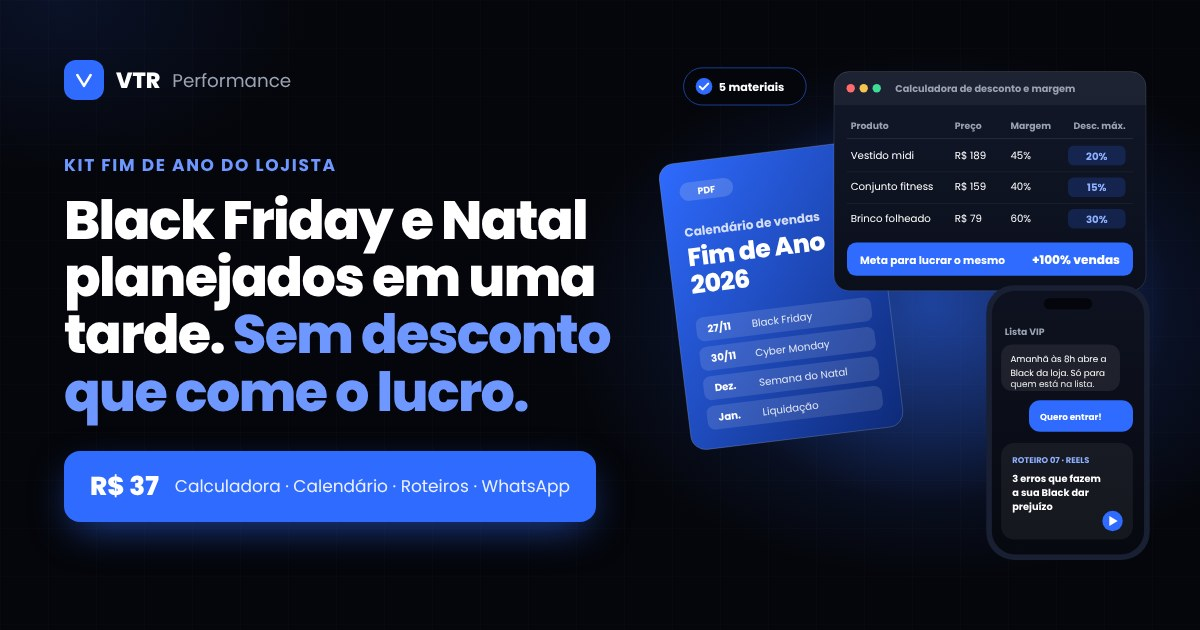
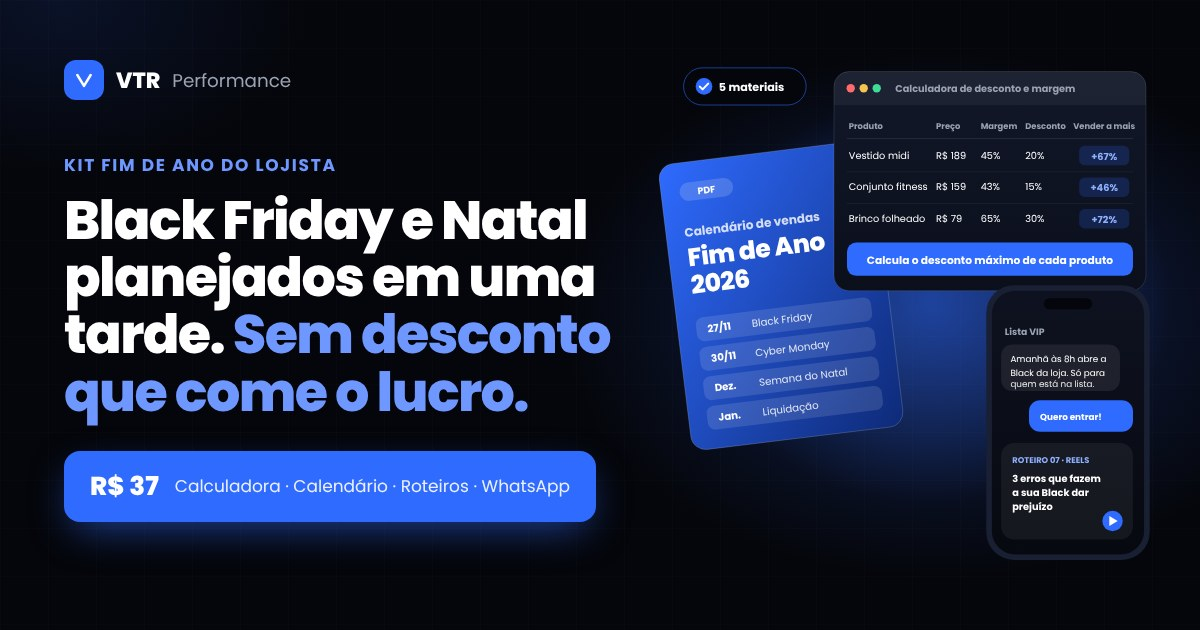
Aplica ajustes finais: mockup da planilha real, contador, diagnóstico e formatos
- Mockup e imagem OG com a tabela da calculadora real (preço, margem,
  desconto e "vender a mais"); barra trocada por "Calcula o desconto
  máximo de cada produto"
- Contador no fuso America/Sao_Paulo: Black Friday, "Hoje é Black
  Friday", contagem do Natal, "Último dia para o presente de Natal" em
  24/12 e oculto a partir de 25/12
- Página de obrigado volta a ofertar o Diagnóstico Estratégico (R$ 97)
  com o checkout da Cakto e agendamento pelo WhatsApp
- Formatos reais dos materiais: planilha com 4 abas, 30 roteiros + 8
  prompts, 23 mensagens, checklist com 9 áreas; termos citam o order bump
- Título "Estrategista de Lojas" e texto do botão centralizado

Claude-Session: https://claude.ai/code/session_01L7rCATTTT9RtvdrDgCRyUu

diff --git a/kit-fim-de-ano-lp/index.html b/kit-fim-de-ano-lp/index.html
@@ -127,23 +127,22 @@
               <path d="M0 16a16 16 0 0 1 16-16h304a16 16 0 0 1 16 16v20H0z" fill="#FFFFFF" fill-opacity="0.05"/>
               <circle cx="18" cy="18" r="4.5" fill="#FF6B6B"/><circle cx="32" cy="18" r="4.5" fill="#F5C451"/><circle cx="46" cy="18" r="4.5" fill="#3DDC97"/>
               <text x="66" y="22" font-size="10.5" font-weight="700" fill="#9AA3B2">Calculadora de desconto e margem</text>
-              <g font-size="10" fill="#9AA3B2" font-weight="700">
-                <text x="18" y="62">Produto</text><text x="130" y="62">Preço</text><text x="190" y="62">Margem</text><text x="258" y="62">Desc. máx.</text>
+              <g font-size="9" fill="#9AA3B2" font-weight="700">
+                <text x="16" y="62">Produto</text><text x="110" y="62">Preço</text><text x="158" y="62">Margem</text><text x="206" y="62">Desconto</text><text x="291" y="62" text-anchor="middle">Vender a mais</text>
               </g>
               <line x1="14" y1="72" x2="322" y2="72" stroke="#FFFFFF" stroke-opacity="0.1"/>
-              <g font-size="11" fill="#FFFFFF">
-                <text x="18" y="94">Vestido midi</text><text x="130" y="94">R$ 189</text><text x="190" y="94">45%</text>
-                <rect x="252" y="80" width="62" height="21" rx="6" fill="#2F6BFF" fill-opacity="0.2"/><text x="283" y="95" text-anchor="middle" font-weight="700" fill="#8FB0FF">20%</text>
+              <g font-size="10.5" fill="#FFFFFF">
+                <text x="16" y="94">Vestido midi</text><text x="110" y="94">R$ 189</text><text x="158" y="94">45%</text><text x="206" y="94">20%</text>
+                <rect x="264" y="80" width="54" height="21" rx="6" fill="#2F6BFF" fill-opacity="0.2"/><text x="291" y="95" text-anchor="middle" font-weight="700" fill="#8FB0FF">+67%</text>
                 <line x1="14" y1="108" x2="322" y2="108" stroke="#FFFFFF" stroke-opacity="0.06"/>
-                <text x="18" y="128">Conjunto fitness</text><text x="130" y="128">R$ 159</text><text x="190" y="128">40%</text>
-                <rect x="252" y="114" width="62" height="21" rx="6" fill="#2F6BFF" fill-opacity="0.2"/><text x="283" y="129" text-anchor="middle" font-weight="700" fill="#8FB0FF">15%</text>
+                <text x="16" y="128">Conjunto fitness</text><text x="110" y="128">R$ 159</text><text x="158" y="128">43%</text><text x="206" y="128">15%</text>
+                <rect x="264" y="114" width="54" height="21" rx="6" fill="#2F6BFF" fill-opacity="0.2"/><text x="291" y="129" text-anchor="middle" font-weight="700" fill="#8FB0FF">+46%</text>
                 <line x1="14" y1="142" x2="322" y2="142" stroke="#FFFFFF" stroke-opacity="0.06"/>
-                <text x="18" y="162">Brinco folheado</text><text x="130" y="162">R$ 79</text><text x="190" y="162">60%</text>
-                <rect x="252" y="148" width="62" height="21" rx="6" fill="#2F6BFF" fill-opacity="0.2"/><text x="283" y="163" text-anchor="middle" font-weight="700" fill="#8FB0FF">30%</text>
+                <text x="16" y="162">Brinco folheado</text><text x="110" y="162">R$ 79</text><text x="158" y="162">65%</text><text x="206" y="162">30%</text>
+                <rect x="264" y="148" width="54" height="21" rx="6" fill="#2F6BFF" fill-opacity="0.2"/><text x="291" y="163" text-anchor="middle" font-weight="700" fill="#8FB0FF">+72%</text>
               </g>
               <rect x="14" y="184" width="308" height="36" rx="10" fill="#2F6BFF"/>
-              <text x="28" y="207" font-size="11.5" font-weight="700" fill="#FFFFFF">Meta para lucrar o mesmo</text>
-              <text x="308" y="207" text-anchor="end" font-size="13" font-weight="800" fill="#FFFFFF">+100% vendas</text>
+              <text x="168" y="207" text-anchor="middle" font-size="11.5" font-weight="700" fill="#FFFFFF">Calcula o desconto máximo de cada produto</text>
             </g>
           
             <!-- Celular -->
@@ -325,8 +324,8 @@
             </div>
             <h3>Calculadora de desconto e margem</h3>
             <p class="benefit">Saiba quanto desconto dar sem prejuízo e quanto vender a mais para compensar.</p>
-            <p class="what">Você coloca o preço e o custo. A planilha mostra o desconto que cabe em cada produto e quanto você precisa vender para a campanha valer a pena.</p>
-            <span class="kit-format">Google Planilhas</span>
+            <p class="what">Você coloca o preço e o custo. A planilha mostra o desconto que cabe em cada produto e quanto você precisa vender para a campanha valer a pena. São 4 abas: calculadora por produto, simulador rápido, meta da campanha e desconto ou brinde.</p>
+            <span class="kit-format">Google Planilhas · 4 abas</span>
           </article>
           <article class="kit-card wide reveal">
             <div class="kit-top">
@@ -351,20 +350,20 @@
               <span class="kit-icon"><svg viewBox="0 0 24 24" fill="none" stroke="currentColor" stroke-width="2" stroke-linecap="round" stroke-linejoin="round" aria-hidden="true"><rect x="3" y="3" width="18" height="18" rx="5"/><path d="M10 8.5v7l5.5-3.5z"/></svg></span>
               <span class="kit-n">Material 3</span>
             </div>
-            <h3>30 roteiros de Reels e stories + prompts de IA</h3>
+            <h3>30 roteiros de Reels e stories + 8 prompts de IA</h3>
             <p class="benefit">Nunca mais trave no que postar.</p>
-            <p class="what">30 roteiros prontos para gravar com o celular, mais prompts para gerar legendas, ganchos e novos roteiros no ChatGPT ou no Claude.</p>
-            <span class="kit-format">PDF</span>
+            <p class="what">30 roteiros prontos para gravar com o celular, mais 8 prompts para gerar legendas, ganchos e novos roteiros no ChatGPT ou no Claude.</p>
+            <span class="kit-format">PDF · 30 roteiros + 8 prompts</span>
           </article>
           <article class="kit-card reveal">
             <div class="kit-top">
               <span class="kit-icon"><svg viewBox="0 0 24 24" fill="none" stroke="currentColor" stroke-width="2" stroke-linecap="round" stroke-linejoin="round" aria-hidden="true"><path d="M4 5h16v11H9l-5 4z"/><path d="M8 9.5h8M8 12.5h5"/></svg></span>
               <span class="kit-n">Material 4</span>
             </div>
-            <h3>Mensagens prontas de WhatsApp</h3>
+            <h3>23 mensagens prontas de WhatsApp</h3>
             <p class="benefit">Acorde a sua base e venda para quem já confia em você.</p>
             <p class="what">Aquecimento da base, lista VIP, abertura da oferta, último dia, recuperação de carrinho e pós-venda. Copie, ajuste e envie.</p>
-            <span class="kit-format">PDF</span>
+            <span class="kit-format">PDF · 23 mensagens</span>
           </article>
           <article class="kit-card reveal">
             <div class="kit-top">
@@ -373,8 +372,8 @@
             </div>
             <h3>Checklist da loja para o fim de ano</h3>
             <p class="benefit">Chegue no pico de vendas sem susto na operação.</p>
-            <p class="what">Estoque, frete, site, meios de pagamento e atendimento revisados antes de o movimento chegar.</p>
-            <span class="kit-format">PDF</span>
+            <p class="what">9 áreas da loja revisadas antes de o movimento chegar, incluindo estoque, frete, site, meios de pagamento e atendimento.</p>
+            <span class="kit-format">PDF · 9 áreas</span>
           </article>
         </div>
         <div class="cta-block center reveal">
@@ -425,7 +424,7 @@
           </div>
           <div class="reveal">
             <span class="eyebrow">Quem preparou o kit</span>
-            <h2 id="t-vitor">Vitor Almeida, estrategista de lojas</h2>
+            <h2 id="t-vitor">Vitor Almeida, Estrategista de Lojas</h2>
             <p>Há cerca de 4 anos eu faço a gestão de Meta Ads e Google Ads de e-commerces e lojas físicas. E todo fim de ano eu vejo a mesma cena: loja vendendo muito e lucrando pouco, porque o desconto foi decidido no chute.</p>
             <p>Este kit reúne o que eu faço antes de qualquer campanha de fim de ano: primeiro a conta, depois o calendário, depois o conteúdo e as mensagens. Organizado para você aplicar sozinho(a), sem precisar contratar ninguém.</p>
             <div class="case">
@@ -445,11 +444,11 @@
         <div class="offer-card reveal">
           <h2 id="t-oferta">Tudo o que a sua loja precisa para o fim de ano</h2>
           <ul class="offer-list">
-            <li><svg viewBox="0 0 24 24" fill="none" stroke="currentColor" stroke-width="2.4" stroke-linecap="round" stroke-linejoin="round" aria-hidden="true"><path d="M5 12.5l4.5 4.5L19 7.5"/></svg><span><strong>Calculadora de desconto e margem</strong><small>O desconto certo para cada produto</small></span></li>
+            <li><svg viewBox="0 0 24 24" fill="none" stroke="currentColor" stroke-width="2.4" stroke-linecap="round" stroke-linejoin="round" aria-hidden="true"><path d="M5 12.5l4.5 4.5L19 7.5"/></svg><span><strong>Calculadora de desconto e margem</strong><small>Planilha com 4 abas: o desconto certo para cada produto</small></span></li>
             <li><svg viewBox="0 0 24 24" fill="none" stroke="currentColor" stroke-width="2.4" stroke-linecap="round" stroke-linejoin="round" aria-hidden="true"><path d="M5 12.5l4.5 4.5L19 7.5"/></svg><span><strong>Calendário de vendas de fim de ano 2026</strong><small>Da Black Friday à liquidação de janeiro</small></span></li>
-            <li><svg viewBox="0 0 24 24" fill="none" stroke="currentColor" stroke-width="2.4" stroke-linecap="round" stroke-linejoin="round" aria-hidden="true"><path d="M5 12.5l4.5 4.5L19 7.5"/></svg><span><strong>30 roteiros de Reels e stories + prompts de IA</strong><small>Conteúdo pronto para as próximas semanas</small></span></li>
-            <li><svg viewBox="0 0 24 24" fill="none" stroke="currentColor" stroke-width="2.4" stroke-linecap="round" stroke-linejoin="round" aria-hidden="true"><path d="M5 12.5l4.5 4.5L19 7.5"/></svg><span><strong>Mensagens prontas de WhatsApp</strong><small>Da lista VIP ao pós-venda</small></span></li>
-            <li><svg viewBox="0 0 24 24" fill="none" stroke="currentColor" stroke-width="2.4" stroke-linecap="round" stroke-linejoin="round" aria-hidden="true"><path d="M5 12.5l4.5 4.5L19 7.5"/></svg><span><strong>Checklist da loja para o fim de ano</strong><small>Estoque, frete, site, pagamento e atendimento</small></span></li>
+            <li><svg viewBox="0 0 24 24" fill="none" stroke="currentColor" stroke-width="2.4" stroke-linecap="round" stroke-linejoin="round" aria-hidden="true"><path d="M5 12.5l4.5 4.5L19 7.5"/></svg><span><strong>30 roteiros de Reels e stories + 8 prompts de IA</strong><small>Conteúdo pronto para as próximas semanas</small></span></li>
+            <li><svg viewBox="0 0 24 24" fill="none" stroke="currentColor" stroke-width="2.4" stroke-linecap="round" stroke-linejoin="round" aria-hidden="true"><path d="M5 12.5l4.5 4.5L19 7.5"/></svg><span><strong>23 mensagens prontas de WhatsApp</strong><small>Da lista VIP ao pós-venda</small></span></li>
+            <li><svg viewBox="0 0 24 24" fill="none" stroke="currentColor" stroke-width="2.4" stroke-linecap="round" stroke-linejoin="round" aria-hidden="true"><path d="M5 12.5l4.5 4.5L19 7.5"/></svg><span><strong>Checklist da loja para o fim de ano</strong><small>9 áreas: estoque, frete, site, pagamento, atendimento e mais</small></span></li>
             <li><svg viewBox="0 0 24 24" fill="none" stroke="currentColor" stroke-width="2.4" stroke-linecap="round" stroke-linejoin="round" aria-hidden="true"><path d="M5 12.5l4.5 4.5L19 7.5"/></svg><span><strong>Acesso à pasta do kit no Google Drive</strong><small>Tudo num lugar só, no celular ou no computador</small></span></li>
           </ul>
           <div class="price">
@@ -494,7 +493,7 @@
           </details>
           <details class="reveal">
             <summary>Preciso saber usar IA?</summary>
-            <div class="answer"><p>Não. Os 30 roteiros já vêm prontos. Os prompts são um extra: você copia, cola no ChatGPT ou no Claude, troca as informações pelas da sua loja e recebe legendas e ganchos no seu tom.</p></div>
+            <div class="answer"><p>Não. Os 30 roteiros já vêm prontos. Os 8 prompts são um extra: você copia, cola no ChatGPT ou no Claude, troca as informações pelas da sua loja e recebe legendas e ganchos no seu tom.</p></div>
           </details>
           <details class="reveal">
             <summary>Como recebo o kit?</summary>

diff --git a/kit-fim-de-ano-lp/obrigado/index.html b/kit-fim-de-ano-lp/obrigado/index.html
@@ -44,19 +44,25 @@
       </ol>
       <p class="muted" style="margin-top:20px">Não recebeu ou ficou com alguma dúvida? <a class="js-whatsapp blue" href="#">Fale comigo no WhatsApp</a>.</p>
 
-      <!-- CONSULTORIA: contato direto pelo WhatsApp (sem checkout por enquanto) -->
+      <!-- UPSELL: Diagnóstico Estratégico da Loja (R$ 97). Link em UPSELL_URL, no topo de assets/main.js -->
       <section class="upsell" aria-labelledby="t-upsell" style="padding:0">
         <div class="offer-card">
-          <span class="eyebrow">Quer ir além do kit?</span>
+          <span class="eyebrow">Antes de sair</span>
           <h2 id="t-upsell">Quer que eu olhe a sua loja com você?</h2>
-          <p style="margin-top:16px;color:#C5CBD6">O kit te dá o plano. Se você quiser aplicar com acompanhamento, eu faço <strong>consultorias individuais</strong> com lojistas: a gente olha os números da <strong>sua</strong> loja juntos e monta as prioridades para o fim de ano.</p>
+          <p style="margin-top:16px;color:#C5CBD6">O kit te dá o plano. No <strong>Diagnóstico Estratégico da Loja</strong>, a gente olha os números da <strong>sua</strong> loja juntos, numa consultoria individual, e você sai sabendo onde estão as maiores oportunidades para o fim de ano.</p>
           <ul class="offer-list">
             <li><svg viewBox="0 0 24 24" fill="none" stroke="currentColor" stroke-width="2.4" stroke-linecap="round" stroke-linejoin="round" aria-hidden="true"><path d="M5 12.5l4.5 4.5L19 7.5"/></svg><span><strong>Sua margem e o seu desconto</strong><small>Revisamos juntos os produtos que você quer colocar na promoção</small></span></li>
             <li><svg viewBox="0 0 24 24" fill="none" stroke="currentColor" stroke-width="2.4" stroke-linecap="round" stroke-linejoin="round" aria-hidden="true"><path d="M5 12.5l4.5 4.5L19 7.5"/></svg><span><strong>A sua oferta de fim de ano</strong><small>O que oferecer, para quem e em qual data</small></span></li>
             <li><svg viewBox="0 0 24 24" fill="none" stroke="currentColor" stroke-width="2.4" stroke-linecap="round" stroke-linejoin="round" aria-hidden="true"><path d="M5 12.5l4.5 4.5L19 7.5"/></svg><span><strong>Seus canais de venda</strong><small>Instagram, WhatsApp, site e anúncios: onde focar primeiro</small></span></li>
+            <li><svg viewBox="0 0 24 24" fill="none" stroke="currentColor" stroke-width="2.4" stroke-linecap="round" stroke-linejoin="round" aria-hidden="true"><path d="M5 12.5l4.5 4.5L19 7.5"/></svg><span><strong>3 prioridades para as próximas semanas</strong><small>Você sai sabendo o que fazer primeiro</small></span></li>
           </ul>
-          <a class="btn js-whatsapp" data-wa-text="Oi, Vitor! Comprei o Kit Fim de Ano e quero saber como funciona a consultoria para a minha loja." href="#">Quero falar com o Vitor no WhatsApp <svg viewBox="0 0 24 24" fill="none" stroke="currentColor" stroke-width="2.4" stroke-linecap="round" stroke-linejoin="round" aria-hidden="true"><path d="M5 12h14M13 6l6 6-6 6"/></svg></a>
-          <a class="link-plain" href="/">Agora não. Vou começar pelo kit.</a>
+          <div class="price">
+            <span class="only">Diagnóstico Estratégico da Loja</span>
+            <div class="value" aria-label="97 reais"><span class="cur">R$</span><span class="num">97</span></div>
+            <span class="terms">Depois do pagamento, você agenda comigo pelo WhatsApp</span>
+          </div>
+          <a class="btn js-upsell" href="#">Quero o meu diagnóstico <svg viewBox="0 0 24 24" fill="none" stroke="currentColor" stroke-width="2.4" stroke-linecap="round" stroke-linejoin="round" aria-hidden="true"><path d="M5 12h14M13 6l6 6-6 6"/></svg></a>
+          <a class="link-plain" href="/">Não, obrigado. Vou começar só com o kit.</a>
         </div>
       </section>
     </div>

diff --git a/kit-fim-de-ano-lp/assets/main.js b/kit-fim-de-ano-lp/assets/main.js
@@ -2,15 +2,15 @@
    CONFIGURAÇÃO — troque só estes valores (veja o README.md)
    ========================================================================== */
 var CHECKOUT_URL    = "https://pay.cakto.com.br/966yqov_1312461"; // ex.: https://pay.cakto.com.br/abc123
-var UPSELL_URL      = "[PREENCHER LINK DO UPSELL]";          // opcional: hoje a consultoria é pelo WhatsApp
+var UPSELL_URL      = "https://pay.cakto.com.br/j2mdbbi_1313183"; // Diagnóstico Estratégico da Loja (R$ 97)
 var META_PIXEL_ID   = "1123355403977678";                // só números, ex.: 123456789012345
 var WHATSAPP_NUMBER = "5511992137608";                // DDI + DDD + número, só números, ex.: 5519999999999
 var WHATSAPP_TEXT   = "Oi, Vitor! Tenho uma dúvida sobre o Kit Fim de Ano do Lojista.";
 var PRODUCT_VALUE   = 37;
 
-/* Datas reais usadas no contador de dias (horário de Brasília) */
-var BLACK_FRIDAY = "2026-11-27T00:00:00-03:00";
-var NATAL        = "2026-12-25T00:00:00-03:00";
+/* Datas reais usadas no contador de dias (fuso America/Sao_Paulo) */
+var BLACK_FRIDAY = "2026-11-27";
+var NATAL        = "2026-12-25";
 
 /* ========================================================================== */
 (function () {
@@ -95,23 +95,24 @@ var NATAL        = "2026-12-25T00:00:00-03:00";
     window.addEventListener("scroll", onScroll, { passive: true });
   }
 
-  /* ---------- Contador de dias (data real, não reinicia) ---------- */
+  /* ---------- Contador de dias (data real, não reinicia) ----------
+     Até 26/11: "Faltam X dias para a Black Friday" · 27/11: "Hoje é Black Friday"
+     28/11 a 23/12: "Faltam X dias para o Natal" · 24/12: "Último dia para o presente de Natal"
+     A partir de 25/12: escondido. Usa a data do navegador no fuso de São Paulo. */
   var pills = document.querySelectorAll(".js-countdown");
   if (pills.length) {
-    var now = Date.now();
-    var day = 864e5;
-    var bf = new Date(BLACK_FRIDAY).getTime();
-    var xmas = new Date(NATAL).getTime();
+    var todaySP;
+    try {
+      todaySP = new Intl.DateTimeFormat("en-CA", { timeZone: "America/Sao_Paulo", year: "numeric", month: "2-digit", day: "2-digit" }).format(new Date());
+    } catch (e) { todaySP = new Date().toISOString().slice(0, 10); }
+    var dayNum = function (ymd) { var p = ymd.split("-"); return Date.UTC(+p[0], +p[1] - 1, +p[2]) / 864e5; };
+    var t = dayNum(todaySP), bf = dayNum(BLACK_FRIDAY), xmas = dayNum(NATAL);
+    var plural = function (n, alvo) { return n === 1 ? "Falta <b>1 dia</b> para " + alvo : "Faltam <b>" + n + " dias</b> para " + alvo; };
     var text = "";
-    if (now < bf) {
-      var d = Math.ceil((bf - now) / day);
-      text = d === 1 ? "Falta <b>1 dia</b> para a Black Friday" : "Faltam <b>" + d + " dias</b> para a Black Friday";
-    } else if (now < bf + day) {
-      text = "<b>Hoje</b> é Black Friday";
-    } else if (now < xmas) {
-      var n = Math.ceil((xmas - now) / day);
-      text = n === 1 ? "Falta <b>1 dia</b> para o Natal" : "Faltam <b>" + n + " dias</b> para o Natal";
-    }
+    if (t < bf) text = plural(bf - t, "a Black Friday");
+    else if (t === bf) text = "<b>Hoje</b> é Black Friday";
+    else if (t === xmas - 1) text = "<b>Último dia</b> para o presente de Natal";
+    else if (t < xmas) text = plural(xmas - t, "o Natal");
     if (text) pills.forEach(function (p) { p.innerHTML = text; p.hidden = false; });
   }
 

diff --git a/kit-fim-de-ano-lp/termos/index.html b/kit-fim-de-ano-lp/termos/index.html
@@ -36,7 +36,7 @@
       <p>Estes termos valem para o uso deste site e para a compra do <strong>Kit Fim de Ano do Lojista: da Black Friday ao Natal</strong>, oferecido pela VTR Performance, inscrita no CNPJ 56.418.923/0001-12 <!-- [CONFIRMAR RAZÃO SOCIAL] -->.</p>
 
       <h2>1. O produto</h2>
-      <p>O kit é um produto digital composto por uma calculadora de desconto e margem (Google Planilhas) e pelos seguintes materiais em PDF: calendário de vendas de fim de ano 2026, 30 roteiros de Reels e stories com prompts de IA, mensagens prontas de WhatsApp e checklist da loja para o fim de ano. Tudo é entregue em uma pasta no Google Drive, cujo acesso é enviado para o e-mail informado na compra, após a aprovação do pagamento.</p>
+      <p>O kit é um produto digital composto por uma calculadora de desconto e margem (Google Planilhas) e pelos seguintes materiais em PDF: calendário de vendas de fim de ano 2026, 30 roteiros de Reels e stories com 8 prompts de IA, 23 mensagens prontas de WhatsApp e checklist da loja para o fim de ano (9 áreas). Quem adiciona o complemento no checkout recebe também um PDF com 25 prompts de anúncios. Tudo é entregue em uma pasta no Google Drive, cujo acesso é enviado para o e-mail informado na compra, após a aprovação do pagamento.</p>
 
       <h2>2. Pagamento</h2>
       <p>O pagamento é processado pela plataforma Cakto, que segue as próprias regras de segurança e privacidade. Não temos acesso aos dados do seu cartão.</p>

diff --git a/kit-fim-de-ano-lp/assets/styles.css b/kit-fim-de-ano-lp/assets/styles.css
@@ -82,6 +82,7 @@ section { position: relative; padding: 72px 0; }
   background: var(--blue);
   color: var(--white);
   font: 700 1.125rem/1.2 var(--font);
+  text-align: center;
   text-decoration: none;
   border: 0; border-radius: 14px;
   cursor: pointer;

diff --git a/kit-fim-de-ano-lp/README.md b/kit-fim-de-ano-lp/README.md
@@ -21,7 +21,7 @@ Site estático (HTML + CSS + JS puro), sem backend. Lighthouse mobile local: 100
 
 ## 1. Trocar o link do checkout, o pixel e o WhatsApp
 
-> **Já configurado (11/11/2026):** checkout `https://pay.cakto.com.br/966yqov_1312461`, Meta Pixel `1123355403977678` e WhatsApp `5511992137608`. Falta só o `UPSELL_URL`.
+> **Já configurado:** checkout do kit `https://pay.cakto.com.br/966yqov_1312461`, checkout do diagnóstico `https://pay.cakto.com.br/j2mdbbi_1313183` (`UPSELL_URL`), Meta Pixel `1123355403977678` e WhatsApp `5511992137608`.
 
 Abra `assets/main.js`. As primeiras linhas eram estas:
 
@@ -48,7 +48,7 @@ var WHATSAPP_NUMBER = "5519999999999";
 
 - **UTM:** se alguém chega em `kit.vtrperformance.com.br/?utm_source=instagram&utm_medium=reels`, o botão leva para `pay.cakto.com.br/abc123?utm_source=instagram&utm_medium=reels`. Assim a Cakto mostra de onde veio cada venda.
 - **Meta Pixel:** `PageView` ao abrir, `ViewContent` ao rolar 50% da página e `InitiateCheckout` ao clicar em qualquer botão de compra (valor 37, BRL).
-- **Contador de dias:** mostra "Faltam X dias para a Black Friday" até 27/11 e depois "Faltam X dias para o Natal". É a data real, não reinicia. Depois de 25/12 ele some sozinho.
+- **Contador de dias** (data do navegador no fuso de São Paulo): até 26/11 "Faltam X dias para a Black Friday"; em 27/11 "Hoje é Black Friday"; de 28/11 a 23/12 "Faltam X dias para o Natal"; em 24/12 "Último dia para o presente de Natal"; a partir de 25/12 ele some.
 
 ### Google Tag Manager (GTM-MHCTJ7ZP)
 
@@ -74,7 +74,6 @@ Procure por `[PREENCHER` e `[CONFIRMAR` (Ctrl+F) em cada arquivo:
 - **Razão social:** o CNPJ 56.418.923/0001-12 já está no rodapé e nos termos, com o nome "VTR Performance". Troque pelo nome empresarial exato do cartão CNPJ onde houver `[CONFIRMAR RAZÃO SOCIAL]`.
 - **E-mail de contato:** já preenchido (agenciavtrperformance@gmail.com).
 - **Foto do Vitor:** já está em `assets/img/vitor.webp` (fundo azul). A outra foto (escritório escuro) está em `assets/img/vitor-alternativa.webp`; para trocar, é só renomear os arquivos.
-- **Escopo do diagnóstico:** confirme os 4 itens da oferta no `obrigado/index.html`.
 
 ---
 
